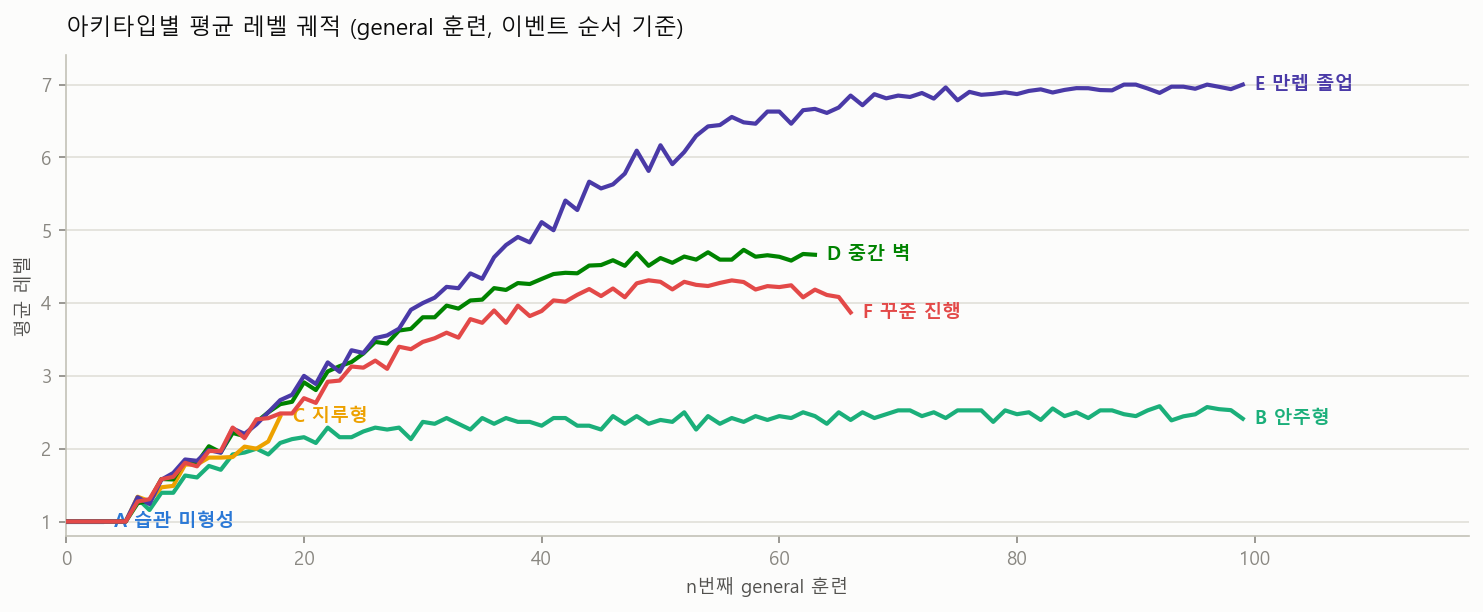
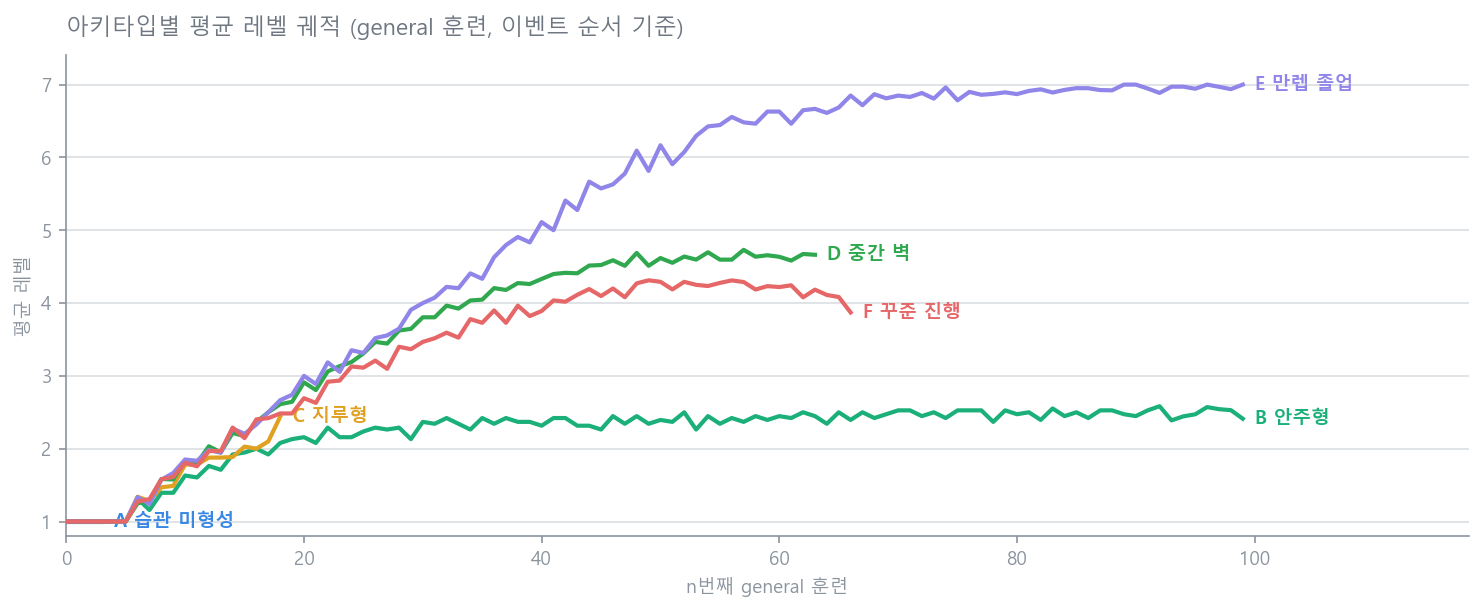
Replace mermaid diagrams with designed transparent figures (theme-safe)

diff --git a/docs/make_charts.py b/docs/make_charts.py
@@ -26,14 +26,14 @@ for fname in ("Malgun Gothic", "AppleGothic", "NanumGothic"):
         continue
 matplotlib.rcParams["axes.unicode_minus"] = False
 
-# reference palette (validated)
-SURFACE = "#fcfcfb"
-INK = "#0b0b0b"
-INK2 = "#52514e"
-MUTED = "#898781"
-GRID = "#e1e0d9"
-BASE = "#c3c2b7"
-SERIES = ["#2a78d6", "#1baf7a", "#eda100", "#008300", "#4a3aa7", "#e34948",
+# transparent background + theme-neutral grays (readable on light & dark)
+SURFACE = "none"
+INK = "#6e7781"    # 제목
+INK2 = "#8b949e"   # 값/축 라벨
+MUTED = "#8b949e"  # 눈금 / 통제군 막대
+GRID = "#8b949e"
+BASE = "#8b949e"
+SERIES = ["#3987e5", "#1baf7a", "#e0a020", "#2fa84f", "#9085e9", "#e66767",
           "#e87ba4", "#eb6834"]
 BLUE = SERIES[0]
 
@@ -55,7 +55,7 @@ def style_ax(ax):
     for s in ("left", "bottom"):
         ax.spines[s].set_color(BASE)
     ax.tick_params(colors=MUTED, labelsize=9)
-    ax.yaxis.grid(True, color=GRID, linewidth=0.8)
+    ax.yaxis.grid(True, color=GRID, linewidth=0.8, alpha=0.3)
     ax.set_axisbelow(True)
 
 
@@ -91,7 +91,7 @@ def chart_archetypes():
 
     fig.tight_layout()
     fig.savefig(IMG / "archetypes.png", dpi=150, bbox_inches="tight",
-                facecolor=SURFACE)
+                transparent=True)
     plt.close(fig)
     print("wrote archetypes.png")
 
@@ -108,7 +108,7 @@ def chart_simulation():
         (axes[1], "mean_maintain", "정책별 레벨 유지율 — 난이도 반응성", "{:.0%}"),
     ):
         style_ax(ax)
-        ax.xaxis.grid(True, color=GRID, linewidth=0.8)
+        ax.xaxis.grid(True, color=GRID, linewidth=0.8, alpha=0.3)
         ax.yaxis.grid(False)
         bars = ax.barh(names, sim[col], color=colors, height=0.62, zorder=3)
         for b, v in zip(bars, sim[col]):
@@ -120,7 +120,7 @@ def chart_simulation():
         ax.set_title(title, fontsize=11, color=INK, loc="left", pad=10)
     fig.tight_layout()
     fig.savefig(IMG / "simulation.png", dpi=150, bbox_inches="tight",
-                facecolor=SURFACE)
+                transparent=True)
     plt.close(fig)
     print("wrote simulation.png")
 
@@ -156,7 +156,7 @@ def chart_trajectories():
     ax.set_ylabel("평균 레벨", fontsize=9, color=INK2)
     fig.tight_layout()
     fig.savefig(IMG / "trajectories.png", dpi=150, bbox_inches="tight",
-                facecolor=SURFACE)
+                transparent=True)
     plt.close(fig)
     print("wrote trajectories.png")
 